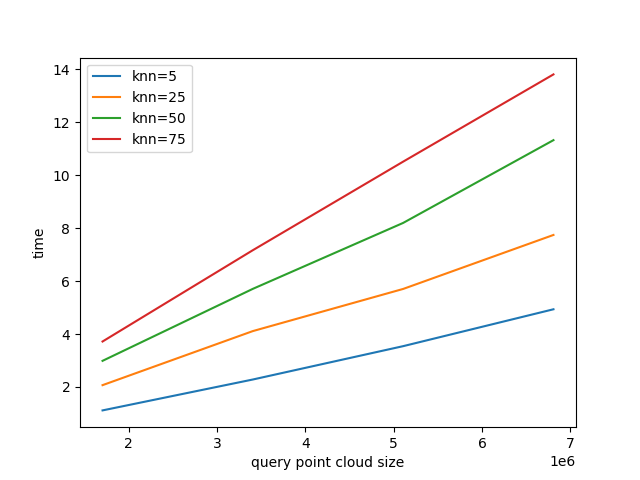
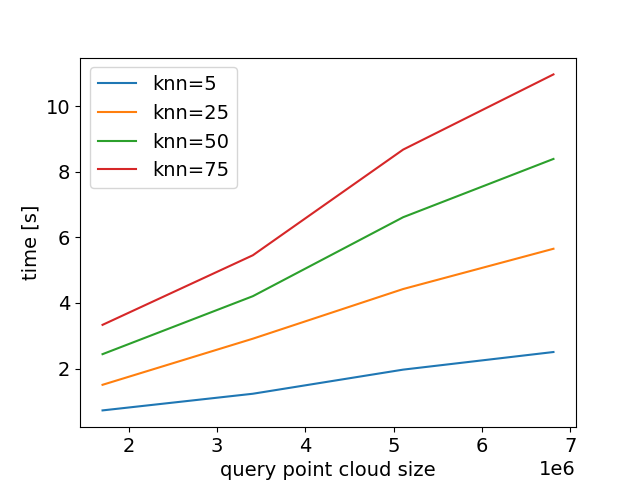
run benchmarks on linux workstation

diff --git a/benchmark/benchmark.py b/benchmark/benchmark.py
@@ -7,6 +7,9 @@ import time
 import numpy as np
 import sys
 import os
+from pathlib import Path
+
+benchmark_dir = Path(__file__).parent.absolute()
 
 dataset="oakland_3d"
 if len(sys.argv) > 1:
@@ -27,56 +30,61 @@ def download_url(url, output_path):
 
 # todo: update eth to flat
 if __name__=="__main__":
-    if not os.path.exists(dataset):
+    dataset_path = benchmark_dir.joinpath(f"../datasets/{dataset}.h5").absolute()
+    
+    if not os.path.exists(dataset_path):
         print("Remote download")
-        download_url("https://api.bgd.ed.tum.de/datasets/pointclouds/%s.h5"%(dataset), "%s.h5"%(dataset))
-        points = h5py.File("%s.h5"%(dataset))["coords"]
+        download_url(f"https://api.bgd.ed.tum.de/datasets/pointclouds/{dataset}.h5", dataset_path)
     else:
         print("Loading locally")
-        points = h5py.File(dataset)["coords"]
+    
+    
+    points = h5py.File(dataset_path)["coords"]
     print(points.shape)
 
     x = pointcloudqueries.pointcloud3d()
 
     start = time.time()
     x.add(points) # note this needs to be packed, sometimes you might to use numpy copy when you have sliced from some unaligned data
-    print("Adding: %s" %(str(time.time()-start)))
+    print("Adding: %.3fs" %(time.time()-start))
 
     start = time.time()
-    x.index();
-    print("Indexing (1time): %s" %(str(time.time()-start)))
+    x.index()
+    print("Indexing (first time): %.3fs" %(time.time()-start))
 
     start = time.time()
-    distancemap = x.knn_radius("knn30", 30);
-    print("kNN Radius: %s" %(str(time.time()-start)))
+    distancemap = x.knn_radius("knn30", 30)
+    print("kNN Radius: %.3fs" %(time.time()-start))
 
     radii = x.get_attrib("knn30")
     print(radii)
     default_range = np.nanmean(x.get_attrib("knn30"))
-    print("Default range for 30 points is %.2f" % (default_range))
+    print("Default range for 30 points is %.3f" % (default_range))
 
     start = time.time()
     distancemap = x.eigenfeatures_range("test", default_range);print("")
-    print("Eigenfeatures: %s" %(str(time.time()-start)))
-    data = x.get_attrib("test_planarity");
-    # impute nans
-    data[np.isnan(data)] = 0
-    import scipy.stats
+    print("Eigenfeatures: %.3fs" %(time.time()-start))
     
     if os.environ.get('PCL_BENCHMARK_NOVISUALIZATION') is None:
-        import matplotlib.cm
-        cmap = matplotlib.cm.get_cmap('viridis')
+        import scipy.stats
+        import matplotlib
+        
+        data = x.get_attrib("test_planarity")
+        data[np.isnan(data)] = 0  # impute nans
         feature_values = data
         print(scipy.stats.describe(feature_values))
-        feature_values = feature_values / np.max(feature_values)
+        
+        cmap = matplotlib.colormaps.get_cmap('viridis')
         colorizer = lambda x: cmap(x)
         colorizer_func = np.vectorize(colorizer)
         
+        feature_values = feature_values / np.max(feature_values)
         feature_values = colorizer_func(feature_values)
         feature_colors = np.stack([feature_values[0],feature_values[1],feature_values[2]],axis=-1)
         print(feature_colors.shape)
         
         import open3d as o3d
+        
         pcd = o3d.geometry.PointCloud()
         pcd.points = o3d.utility.Vector3dVector(points)
         pcd.colors = o3d.utility.Vector3dVector(feature_colors)

diff --git a/benchmark/benchmark-eigenfeatures.py b/benchmark/benchmark-eigenfeatures.py
@@ -16,6 +16,10 @@ import numpy as np
 import sys
 import os
 import json
+from matplotlib import pyplot as plt
+from pathlib import Path
+
+benchmark_dir = Path(__file__).parent.absolute()
 
 class cfg:
     plot_pts = 5
@@ -35,13 +39,15 @@ def download_url(url, output_path):
 # todo: update eth to flat
 
 def evaluate_dataset_knn(dataset, knn):
-    if not os.path.exists(dataset +".h5"):
+    dataset_path = benchmark_dir.joinpath(f"../datasets/{dataset}.h5").absolute()
+    
+    if not os.path.exists(dataset_path):
         print("Remote download")
-        download_url("https://api.bgd.ed.tum.de/datasets/pointclouds/%s.h5"%(dataset), "%s.h5"%(dataset))
-        points = h5py.File("%s.h5"%(dataset))["coords"]
+        download_url("https://api.bgd.ed.tum.de/datasets/pointclouds/%s.h5"%(dataset), dataset_path)
     else:
         print("Loading locally")
-        points = h5py.File(dataset+".h5")["coords"]
+    
+    points = h5py.File(dataset_path)["coords"]
     print(points.shape)
 
     # Plan the plot slices
@@ -53,20 +59,17 @@ def evaluate_dataset_knn(dataset, knn):
 
     start = time.time()
     x.add(points) # note this needs to be packed, sometimes you might to use numpy copy when you have sliced from some unaligned data
-    print("Adding: %s" %(str(time.time()-start)))
+    print("Adding: %.3fs" %(time.time()-start))
 
     start = time.time()
-    x.index();
-    print("Indexing (1time): %s" %(str(time.time()-start)))
+    x.index()
+    print("Indexing (first time): %.3fs" %(time.time()-start))
     print("Calibrating to about %d points" %(knn))
-    distancemap = x.knn_radius("knn", knn);
+    distancemap = x.knn_radius("knn", knn)
     radii = x.get_attrib("knn")
     print(radii)
     default_range = np.nanmean(x.get_attrib("knn"))
-    print("Default range for %d points is %.2f" % (knn,default_range))
-
-
-
+    print("Default range for %d points is %.3f" % (knn,default_range))
     
     plot=[]
     #for iteration in range(20):
@@ -74,29 +77,23 @@ def evaluate_dataset_knn(dataset, knn):
         x.drop_cloud(); # drop the cloud
         x.add (points[s,:]) # add points
         start = time.time()
-        #distancemap = x.knn_radius("knn", knn);
-        distancemap = x.eigenfeatures_range("test", default_range);
+        distancemap = x.eigenfeatures_range("test", default_range)
         plot = plot+[[s.stop,time.time()-start]]
 
     plot=np.array(plot)
 #    print(plot)
- #   from matplotlib import pyplot as plt
  #   plt.plot(plot[:,0],plot[:,1])
 #    plt.show()
-    np.save("result-%s-eigenrange-%04d.json" % (dataset,knn),plot)
+    np.save(benchmark_dir.joinpath("result-%s-eigenrange-%04d.json" % (dataset,knn)),plot)
     return plot
     
-from matplotlib import pyplot as plt
 
 if __name__=="__main__":
+    plt.rcParams.update({'font.size': 14})
     plot_data = [(knn,evaluate_dataset_knn(sys.argv[1],knn)) for knn in [5,25,50,75]]
     for knn, data in plot_data:
         plt.plot(data[:,0],data[:,1],label="knn=%d" % (knn))
     plt.legend()
     plt.xlabel("query point cloud size")
-    plt.ylabel("time")
-    plt.savefig("%s_eigen30.png" %(sys.argv[1]))
-
-    
-    
-   
+    plt.ylabel("time [s]")
+    plt.savefig(benchmark_dir.joinpath("%s_eigen30.png" %(sys.argv[1])))

diff --git a/benchmark/benchmark-queryscalable.py b/benchmark/benchmark-queryscalable.py
@@ -16,6 +16,10 @@ import numpy as np
 import sys
 import os
 import json
+from matplotlib import pyplot as plt
+from pathlib import Path
+
+benchmark_dir = Path(__file__).parent.absolute()
 
 class cfg:
     plot_pts = 5
@@ -35,13 +39,15 @@ def download_url(url, output_path):
 # todo: update eth to flat
 
 def evaluate_dataset_knn(dataset, knn):
-    if not os.path.exists(dataset +".h5"):
+    dataset_path = benchmark_dir.joinpath(f"../datasets/{dataset}.h5").absolute()
+    
+    if not os.path.exists(dataset_path):
         print("Remote download")
-        download_url("https://api.bgd.ed.tum.de/datasets/pointclouds/%s.h5"%(dataset), "%s.h5"%(dataset))
-        points = h5py.File("%s.h5"%(dataset))["coords"]
+        download_url("https://api.bgd.ed.tum.de/datasets/pointclouds/%s.h5"%(dataset), dataset_path)
     else:
         print("Loading locally")
-        points = h5py.File(dataset+".h5")["coords"]
+    
+    points = h5py.File(dataset_path)["coords"]
     print(points.shape)
 
     # Plan the plot slices
@@ -53,39 +59,34 @@ def evaluate_dataset_knn(dataset, knn):
 
     start = time.time()
     x.add(points) # note this needs to be packed, sometimes you might to use numpy copy when you have sliced from some unaligned data
-    print("Adding: %s" %(str(time.time()-start)))
+    print("Adding: %.3fs" %(time.time()-start))
 
     start = time.time()
-    x.index();
-    print("Indexing (1time): %s" %(str(time.time()-start)))
+    x.index()
+    print("Indexing (first time): %.3fs" %(time.time()-start))
     plot=[]
     #for iteration in range(20):
     for s in tqdm(slices):
         x.drop_cloud(); # drop the cloud
         x.add (points[s,:]) # add points
         start = time.time()
-        distancemap = x.knn_radius("knn", knn);
+        distancemap = x.knn_radius("knn", knn)
         plot = plot+[[s.stop,time.time()-start]]
 
     plot=np.array(plot)
 #    print(plot)
- #   from matplotlib import pyplot as plt
  #   plt.plot(plot[:,0],plot[:,1])
 #    plt.show()
-    np.save("result-%s-knn-%04d.json" % (dataset,knn),plot)
+    np.save(benchmark_dir.joinpath("result-%s-knn-%04d.json" % (dataset,knn)),plot)
     return plot
-    
-from matplotlib import pyplot as plt
+
 
 if __name__=="__main__":
+    plt.rcParams.update({'font.size': 14})
     plot_data = [(knn,evaluate_dataset_knn(sys.argv[1],knn)) for knn in [5,25,50,75]]
     for knn, data in plot_data:
         plt.plot(data[:,0],data[:,1],label="knn=%d" % (knn))
     plt.legend()
     plt.xlabel("query point cloud size")
-    plt.ylabel("time")
-    plt.savefig("%s_knn.png" %(sys.argv[1]))
-
-    
-    
-   
+    plt.ylabel("time [s]")
+    plt.savefig(benchmark_dir.joinpath("%s_knn.png" %(sys.argv[1])))

diff --git a/benchmark/kijkduin.py b/benchmark/kijkduin.py
@@ -33,7 +33,7 @@ if __name__=="__main__":
     report["time_read"] = time.time()-start
     print("PARTIAL:", [x + str(report[x]) for  x in report])
     start=time.time()
-    pcl.add(cloud);
+    pcl.add(cloud)
     report["time_add"] = time.time()-start
     print("PARTIAL:", [x + str(report[x]) for  x in report])
     print("adding: %s" %(time.time()-start)),
@@ -42,7 +42,7 @@ if __name__=="__main__":
     report["time_index"] = time.time()-start
     print("PARTIAL:", [x + str(report[x]) for  x in report])
     start=time.time()
-    pcl.boxfilter_4d("filter",0.5, int(168*24*60*60/2));
+    pcl.boxfilter_4d("filter",0.5, int(168*24*60*60/2))
     report["time_boxfilter"] = time.time()-start
     print("PARTIAL:", [x + str(report[x]) for  x in report])
     start=time.time()
